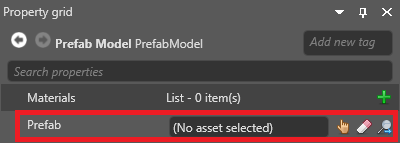
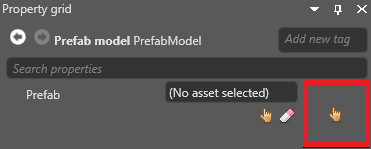
[Prefabs] adjust screenshot, extra info

diff --git a/en/manual/game-studio/prefabs/prefab-models.md b/en/manual/game-studio/prefabs/prefab-models.md
@@ -7,6 +7,8 @@
 
 Prefab models don't inherit elements such as lights, colliders, or other components - they're only models, and have to be used just like other models. For example, if you have a prefab comprising two models with physics components, the prefab model creates a single model from the two models and ignores the physics components. If you need to add components to a prefab model, add them to the prefab model itself.
 
+Prefab models don't expose materials. This means you can't view or edit them in the prefab model asset, or in model components that use the prefab model.
+
 ## Create a prefab model
 
 1. In the **asset view**, select **Add asset > Model > Prefab model**.
